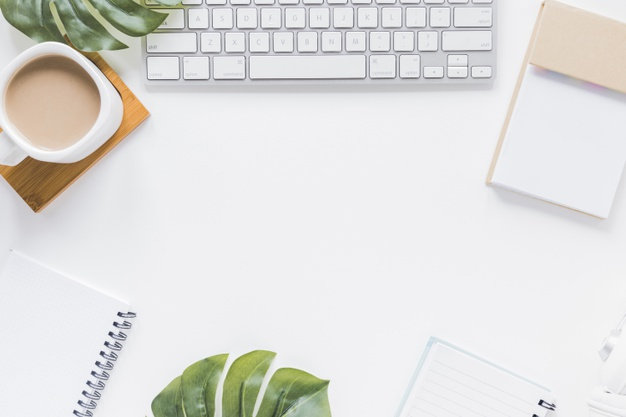
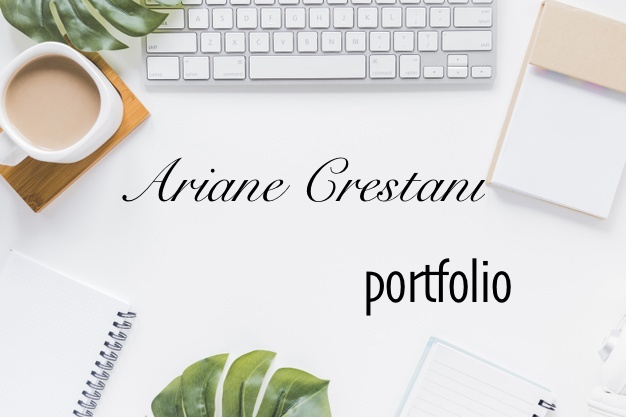
change the image adc details

diff --git a/code/index.js b/code/index.js
@@ -13,7 +13,9 @@ function createDiv() {
     const homeImg = document.createElement('img');
 
     // configurar a imagem
-    homeImg.src = "images/main1.jpg";
+    homeImg.src = "images/main3.jpg";
+   
+
     // adicionar o elemento imagem na div
 
     imgDiv.appendChild(homeImg);
@@ -27,7 +29,11 @@ function createDiv() {
 
     //adicionar o elemento menu no header
     header.appendChild(menuItemHome);
-    
+    const titleImage =document.createElement('h1');
+    titleImage.textContent= 'Ariane Crestani'
+    titleImage.className = 'titleImage'
+
+    imgDiv.appendChild(titleImage);
 
 
 
@@ -36,7 +42,7 @@ function createDiv() {
      //criar elemento titulo 
     const titleAbout = document.createElement('h2');
     titleAbout.textContent = 'About me'
-    titleAbout.className = 'titleSection1'
+    titleAbout.className = 'title'
     //add no section about
     container.appendChild(titleAbout);
     const sectionAbout = document.createElement('div');
@@ -82,7 +88,7 @@ function createDiv() {
     const titleProject = document.createElement('h3');
     //escrever o paragrafo
     titleProject.textContent = 'Project';
-    titleProject.className = 'titleSection3'
+    titleProject.className = 'title'
 
     //adicionar o elemento paragrafo na div
 
@@ -127,7 +133,7 @@ function createDiv() {
 
     const titleContact = document.createElement('h2');
     titleContact.textContent = 'Contact';
-    titleContact.className = 'titleSection2';
+    titleContact.className = 'title';
     //add no section about
     container.appendChild(titleContact);
 

diff --git a/css/style.css b/css/style.css
@@ -22,7 +22,7 @@ img {
   color: beige;
   font-size: 25px;
   text-transform: uppercase;
-  padding: 10px;
+  padding: 2rem;
 }
 
 .divLandingSection2 > img {
@@ -30,6 +30,13 @@ img {
   width: 200px;
   height: 200px;
   padding: 170px;
+}
+.titleImage {
+  position: absolute;
+  top: 50%;
+  left: 50%;
+  margin-top: -25px;
+  margin-left: -25px;
 }
 
 .divLandingSection2 {
@@ -53,25 +60,14 @@ img {
   background-color: #e8e8e8;
   padding: 50px;
 }
-.titleSection1 {
+.title {
   font-size: 40px;
   text-align: left;
   color: black;
   font-family: fantasy;
+  padding: 2rem;
 }
 
-.titleSection2 {
-  font-size: 40px;
-  text-align: left;
-  color: black;
-  font-family: fantasy;
-}
-.titleSection3 {
-  font-size: 40px;
-  text-align: left;
-  color: black;
-  font-family: fantasy;
-}
 .linkBlog {
   padding: 30px;
   text-decoration: none;
